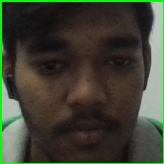
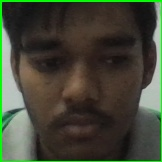
default cam

diff --git a/rec_and_logs.py b/rec_and_logs.py
@@ -1,12 +1,14 @@
 import tkinter as tk
 from PIL import Image, ImageTk
 import os
+import subprocess
+import platform
 
 class RecAndLogsSection(tk.Frame):
     def __init__(self, master):
         super().__init__(master, bg="#232831")
-        self.recording_path = "D:/Final Year"
-        self.logs_path = "D:/My Project"
+        self.recording_path = "/home/lawrence/Videos"
+        self.logs_path = "/home/lawrence/Videos/LOGS"
         self.create_buttons()
 
     def create_buttons(self):
@@ -37,10 +39,28 @@ class RecAndLogsSection(tk.Frame):
         self.grid_columnconfigure(1, weight=1)
 
     def open_recordings_folder(self):
-        os.startfile(self.recording_path)
+        self.open_folder(self.recording_path)
 
     def open_logs_folder(self):
-        os.startfile(self.logs_path)
+        self.open_folder(self.logs_path)
+
+    def open_folder(self, folder_path):
+        system_platform = platform.system().lower()
+
+        try:
+            if system_platform == "windows":
+                # On Windows, use start
+                subprocess.Popen(["start", " ", folder_path], shell=True)
+            elif system_platform == "darwin":
+                # On macOS, use open
+                subprocess.Popen(["open", folder_path])
+            elif system_platform == "linux":
+                # On Linux, use xdg-open
+                subprocess.Popen(["xdg-open", folder_path])
+            else:
+                print("Unsupported platform")
+        except Exception as e:
+            print(f"Error opening folder: {e}")
 
 if __name__ == "__main__":
     root = tk.Tk()

diff --git a/homecontent.py b/homecontent.py
@@ -86,18 +86,23 @@ class HomeContent(tk.Frame):
         self.camera_dropdown.grid(row=1, column=3, sticky="w", padx=10, pady=5)
  
     def start_video_feed(self):
-        # Replace 'your_ip_camera_address' with the actual IP camera address
-        ip_addr = self.cctv_addresses[self.camera_selection_var.get()]
-        ip_camera_address = f"http://{ip_addr}/video"
- 
-        self.vid = cv2.VideoCapture(ip_camera_address)
- 
+        selected_camera = self.camera_selection_var.get()
+
+        if selected_camera and selected_camera in self.cctv_addresses:
+            # If an IP camera address is selected, use it
+            ip_addr = self.cctv_addresses[selected_camera]
+            ip_camera_address = f"http://{ip_addr}/video"
+            self.vid = cv2.VideoCapture(ip_camera_address)
+        else:
+            # If no IP camera address is selected, use the default webcam
+            self.vid = cv2.VideoCapture(0)  # Use 0 as the argument for the default webcam
+
         if self.vid.isOpened():
             self.is_recording = True
             self.after(10, self.update_video_feed)
         else:
             messagebox.showerror("Error", "Unable to open the video feed.")
- 
+
     def update_video_feed(self):
         if self.is_recording:
             ret, frame = self.vid.read()
